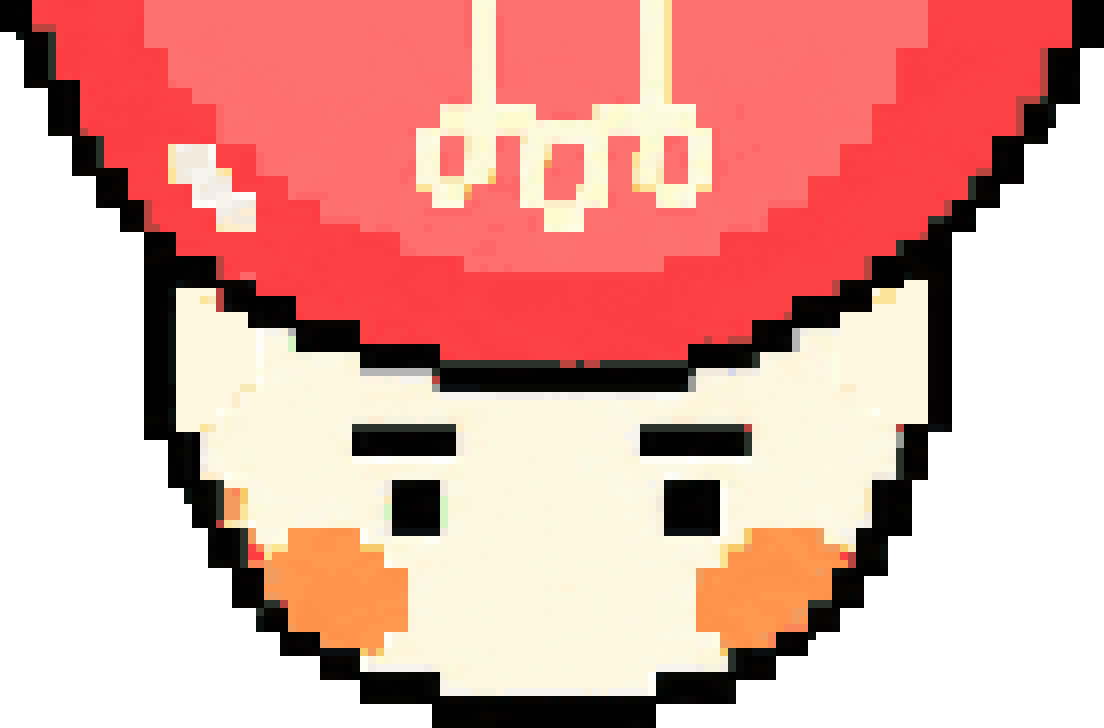
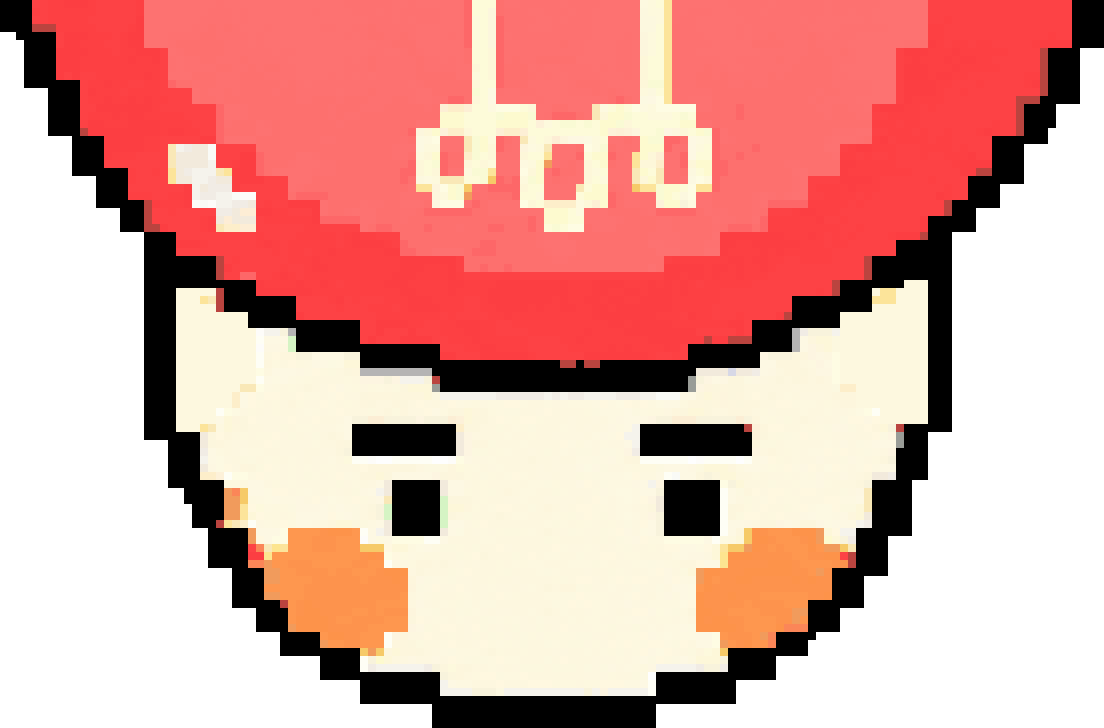
Auto-sync: 2026-11-25 17:25:59

diff --git a/output/imagegen/전구모션_생성도구_2026-11-25/build_backgrounds.py b/output/imagegen/전구모션_생성도구_2026-11-25/build_backgrounds.py
@@ -27,6 +27,36 @@ def foreground(path,pixel):
     if pixel:ar[:,:,3]=np.where(ar[:,:,3]>=cutoff,255,0)
     return Image.fromarray(ar)
 
+def alternate_brows(front,pixel):
+    out=front.copy(); w,h=front.size
+    patches=[(.465,.190,.523,.239,-25),(.544,.190,.608,.239,25),
+             (.035,.845,.119,.909,-25),(.126,.883,.204,.951,25),
+             (.786,.860,.855,.950,-25),(.877,.835,.950,.919,25)]
+    for x0,y0,x1,y1,angle in patches:
+        box=(round(x0*w),round(y0*h),round(x1*w),round(y1*h))
+        patch=out.crop(box); ar=np.array(patch);rgb=ar[:,:,:3].astype(int)
+        dark=(rgb.max(axis=2)<90)&(ar[:,:,3]>128)
+        comps=[]
+        for pts in a.connected(dark):
+            yy,xx=np.array(pts).T
+            if len(pts)>=3 and xx.max()-xx.min()>=max(2,yy.max()-yy.min()):
+                comps.append(pts)
+        if not comps:continue
+        pts=max(comps,key=len); yy,xx=np.array(pts).T
+        mask=np.zeros(dark.shape,dtype='uint8');mask[yy,xx]=255
+        mask=Image.fromarray(mask).filter(ImageFilter.MaxFilter(3))
+        skin=(rgb[:,:,0]>180)&(rgb[:,:,1]>160)&(rgb[:,:,2]>130)&(ar[:,:,3]>128)
+        if not skin.any():continue
+        color=tuple(int(v) for v in np.median(rgb[skin],axis=0))+(255,)
+        fill=Image.new('RGBA',patch.size,color)
+        out.paste(fill,(box[0],box[1]),mask)
+        ink=Image.new('RGBA',patch.size,(0,0,0,255));ink.putalpha(mask)
+        ink=a.trim(ink)
+        ink=ink.rotate(angle,resample=Image.Resampling.NEAREST if pixel else Image.Resampling.BICUBIC,expand=True)
+        center=(box[0]+(int(xx.min())+int(xx.max()))/2,box[1]+(int(yy.min())+int(yy.max()))/2)
+        out.alpha_composite(ink,(round(center[0]-ink.width/2),round(center[1]-ink.height/2)))
+    return out
+
 def run():
     base=fit(a.load(HERE/'하늘_기본원화.png')).convert('RGB')
     files=[]
@@ -39,7 +69,10 @@ def run():
             alpha=front.getchannel('A')
             front=front.convert('RGB').quantize(colors=128,dither=Image.Dither.NONE).convert('RGBA')
             front.putalpha(alpha)
+            ar=np.array(front); dark=(ar[:,:,:3].max(axis=2)<60)&(ar[:,:,3]>0);ar[dark,:3]=0
+            front=Image.fromarray(ar)
         else:sky=base.convert('RGBA')
+        alt=alternate_brows(front,pixel)
         bg_name=f'5색_{style}_배경만_팀원기준_2026-11-25.png'
         shown=a.resize(sky,SIZE,True) if pixel else sky
         shown.convert('RGB').save(ROOT/bg_name,compress_level=1);files.append(bg_name)
@@ -47,6 +80,9 @@ def run():
         wall_name=f'5색_{style}_내려다보기_배경화면_팀원기준_2026-11-25.png'
         shown=a.resize(result,SIZE,True) if pixel else result
         shown.convert('RGB').save(ROOT/wall_name,compress_level=1);files.append(wall_name)
+        alternate=sky.copy();alternate.alpha_composite(alt)
+        name=f'5색_{style}_표정2조합_내려다보기_배경화면_팀원기준_2026-11-25.png'
+        (a.resize(alternate,SIZE,True) if pixel else alternate).convert('RGB').save(ROOT/name,compress_level=1);files.append(name)
         # Assign complete connected components (including detached screw caps)
         # to one of the five requested original edge positions.
         mask=np.array(front.getchannel('A').resize(SMALL,Image.Resampling.NEAREST))>=128
@@ -59,18 +95,26 @@ def run():
             cx,cy=xx.mean()/480,yy.mean()/270
             color=min(ANCHORS,key=lambda c:(cx-ANCHORS[c][0])**2+(cy-ANCHORS[c][1])**2)
             pixels[color][yy,xx]=255
-        poses=[]
+        poses=[];alternates=[]
         for color in a.COLORS:
             mask=Image.fromarray(pixels[color])
             assert mask.getbbox() is not None,f'Missing edge character: {style}/{color}'
             if not pixel:
-                mask=mask.resize(SIZE,Image.Resampling.NEAREST).filter(ImageFilter.MaxFilter(17))
+                mask=mask.filter(ImageFilter.MaxFilter(3)).resize(SIZE,Image.Resampling.NEAREST)
             pose=front.copy()
             pose.putalpha(Image.fromarray(np.minimum(np.array(front.getchannel('A')),np.array(mask))))
             pose=a.trim(pose)
             if pixel:pose=a.resize(pose,(pose.width*8,pose.height*8),True)
             pose_name=f'{color}_{style}_내려다보기_포즈_팀원기준_2026-11-25.png'
             pose.save(ROOT/pose_name,compress_level=1);files.append(pose_name)
+            if color in ['빨강','초록','파랑']:
+                other=alt.copy()
+                other.putalpha(Image.fromarray(np.minimum(np.array(alt.getchannel('A')),np.array(mask))))
+                other=a.trim(other)
+                if pixel:other=a.resize(other,(other.width*8,other.height*8),True)
+                other_name=f'{color}_{style}_표정2_내려다보기_포즈_팀원기준_2026-11-25.png'
+                other.save(ROOT/other_name,compress_level=1);files.append(other_name)
+                alternates.append(other)
             cell=Image.new('RGBA',(896,896))
             if pixel:
                 native=pose.resize((pose.width//8,pose.height//8),Image.Resampling.NEAREST)
@@ -84,6 +128,19 @@ def run():
                 xy=((896-pose.width)//2,(896-pose.height)//2)
             cell.alpha_composite(pose,xy)
             poses.append(cell)
+        for pose in alternates:
+            cell=Image.new('RGBA',(896,896))
+            if pixel:
+                native=pose.resize((pose.width//8,pose.height//8),Image.Resampling.NEAREST)
+                factor=min(1,98/native.width,98/native.height)
+                native=a.resize(native,(native.width*factor,native.height*factor),True)
+                pose=a.resize(native,(native.width*8,native.height*8),True)
+                xy=(((112-native.width)//2)*8,((112-native.height)//2)*8)
+            else:
+                factor=min(784/pose.width,784/pose.height)
+                pose=a.resize(pose,(pose.width*factor,pose.height*factor),False)
+                xy=((896-pose.width)//2,(896-pose.height)//2)
+            cell.alpha_composite(pose,xy);poses.append(cell)
         atlas_name=f'5색_{style}_내려다보기_포즈시트_팀원기준_2026-11-25.png'
         a.sheet(poses,4).save(ROOT/atlas_name,compress_level=1);files.append(atlas_name)
     for name in files:

diff --git a/output/imagegen/전구모션_생성도구_2026-11-25/finish_assets.py b/output/imagegen/전구모션_생성도구_2026-11-25/finish_assets.py
@@ -58,38 +58,44 @@ def repair_directions():
     jobs=[(pixel,style,color,expression) for pixel,style in [(True,'픽셀'),(False,'기본')] for color in a.COLORS for expression in ([1,2] if color in ['빨강','초록','파랑'] else [1])]
     with ThreadPoolExecutor(max_workers=3) as pool:list(pool.map(repair_one,jobs))
 
+def export_one_gif(record):
+    name=record['file'].replace('_모션시트_팀원기준_2026-11-25.png','')
+    frames=read_frames(name)
+    atlas=Image.new('RGB',(448*8,640))
+    for i,f in enumerate(frames):atlas.paste(f.convert('RGB'),(448*i,0))
+    palette=atlas.quantize(colors=255,method=Image.Quantize.MEDIANCUT)
+    indexed=[]
+    for f in frames:
+        ind=f.convert('RGB').quantize(palette=palette,dither=Image.Dither.NONE)
+        ind.paste(255,mask=f.getchannel('A').point(lambda v:255 if v==0 else 0))
+        ind.info['transparency']=255
+        indexed.append(ind)
+    dest=ROOT/(name+'_180ms_팀원기준_2026-11-25.gif')
+    # Explicit full-frame writer retains all 8 frames, including held poses.
+    with dest.open('wb') as fp:
+        for block in GifImagePlugin._get_global_header(indexed[0],{'loop':0,'transparency':255}):fp.write(block)
+        for ind in indexed:
+            GifImagePlugin._write_frame_data(fp,ind,(0,0),{'duration':180,'disposal':2,'transparency':255})
+        fp.write(b';')
+    with Image.open(dest) as check:
+        assert check.n_frames==8 and check.info['loop']==0
+        for i,f in enumerate(ImageSequence.Iterator(check)):
+            assert f.info['duration']==180
+            rgba=f.convert('RGBA')
+            assert set(rgba.getchannel('A').get_flattened_data())=={0,255}
+            assert rgba.tobytes()==rgba.resize((112,160),Image.Resampling.NEAREST).resize((448,640),Image.Resampling.NEAREST).tobytes()
+            assert rgba.getchannel('A').getbbox() is not None
+    return {'file':dest.name,'frames':8,'frame_ms':180,'loop_ms':1440,'transparent':True,'pixel_grid':'4x4'}
+
 def export_gifs(records):
-    assert (HERE/'배경단계_완료.json').exists(),'All background PNGs must precede GIF encoding'
+    from concurrent.futures import ThreadPoolExecutor
+    assert (HERE/'배경단계_완료.json').exists()
+    jobs=[r for r in records if r['kind']=='motion' and r['style']=='픽셀']
     reports=[]
-    for record in records:
-        if record['kind']!='motion' or record['style']!='픽셀':continue
-        name=record['file'].replace('_모션시트_팀원기준_2026-11-25.png','')
-        frames=read_frames(name)
-        atlas=Image.new('RGB',(448*8,640))
-        for i,f in enumerate(frames):atlas.paste(f.convert('RGB'),(448*i,0))
-        palette=atlas.quantize(colors=255,method=Image.Quantize.MEDIANCUT)
-        indexed=[]
-        for f in frames:
-            ind=f.convert('RGB').quantize(palette=palette,dither=Image.Dither.NONE)
-            ind.paste(255,mask=f.getchannel('A').point(lambda v:255 if v==0 else 0))
-            ind.info['transparency']=255
-            indexed.append(ind)
-        dest=ROOT/(name+'_180ms_팀원기준_2026-11-25.gif')
-        # Explicit full-frame writer retains all 8 frames, including held poses.
-        with dest.open('wb') as fp:
-            for block in GifImagePlugin._get_global_header(indexed[0],{'loop':0,'transparency':255}):fp.write(block)
-            for ind in indexed:
-                GifImagePlugin._write_frame_data(fp,ind,(0,0),{'duration':180,'disposal':2,'transparency':255})
-            fp.write(b';')
-        with Image.open(dest) as check:
-            assert check.n_frames==8 and check.info['loop']==0
-            for i,f in enumerate(ImageSequence.Iterator(check)):
-                assert f.info['duration']==180
-                rgba=f.convert('RGBA')
-                assert set(rgba.getchannel('A').get_flattened_data())=={0,255}
-                assert rgba.tobytes()==rgba.resize((112,160),Image.Resampling.NEAREST).resize((448,640),Image.Resampling.NEAREST).tobytes()
-                assert rgba.getchannel('A').getbbox() is not None
-        reports.append({'file':dest.name,'frames':8,'frame_ms':180,'loop_ms':1440,'transparent':True,'pixel_grid':'4x4'})
+    with ThreadPoolExecutor(max_workers=4) as pool:
+        for result in pool.map(export_one_gif,jobs):
+            reports.append(result)
+            if len(reports)%15==0:print('GIF_VERIFIED',len(reports),flush=True)
     return reports
 
 def verify_png(records):
@@ -130,7 +136,11 @@ def preview():
 
 def package():
     records=json.loads((HERE/'PNG_산출물.json').read_text(encoding='utf-8'))
-    verified=verify_png(records)
+    certificate=HERE/'PNG_검증완료.json'
+    if certificate.exists():
+        verified=json.loads(certificate.read_text(encoding='utf-8'))['files']
+        assert set(verified)=={r['file'] for r in records}
+    else:verified=verify_png(records)
     gifreports=export_gifs(records)
     preview_path=preview()
     backgrounds=json.loads((HERE/'배경단계_완료.json').read_text(encoding='utf-8'))
@@ -152,7 +162,7 @@ def package():
         '정면은 팀원 원본을 활용하고, 측면·후면·윗면은 생성 도구 원화를 사용했습니다.\n'
         '픽셀 GIF는 반투명 표현을 지원하지 않아 발광 PNG의 반투명 후광을 불투명 픽셀 띠로 인코딩합니다.\n'
         '상세 파일별 색상/스타일/표정/상태/동작은 JSON 색인을 확인하세요.\n',encoding='utf-8')
-    paths=[ROOT/r['file'] for r in records]+[ROOT/r['file'] for r in gifreports]+[ROOT/x for x in backgrounds['files']]+[index,readme,preview_path]
+    paths=[ROOT/r['file'] for r in records]+[ROOT/r['file'] for r in gifreports]+[ROOT/x for x in backgrounds['files']]+[index,readme,preview_path,ROOT/'전구_팀원기준_생성프롬프트_2026-11-25.json']
     bundle=ROOT/'전구_기본_픽셀_전체_팀원기준_2026-11-25.zip'
     with zipfile.ZipFile(bundle,'w',zipfile.ZIP_DEFLATED,compresslevel=5) as z:
         for p in paths:z.write(p,p.name)

diff --git a/research/광주_웰니스맛집_동명동_충장로.md b/research/광주_웰니스맛집_동명동_충장로.md
@@ -1,0 +1,84 @@
+# 광주 웰니스 맛집: 동명동 + 충장로
+
+확인일: 2026-11-25
+
+## 기준
+
+| 항목 | 동명동 | 충장로 |
+|---|---|---|
+| 별점 | 4.7 이상 | 4.6 이상 또는 비공개 |
+| 방문자 리뷰 | 500개 이상 | 300개 이상 |
+| 체인 | 거르지 않음 | 상호에 지점명이 있으면 제외, 본점은 포함 |
+| 위치 | 동명동 + 장동·지산동 | 충장로1가 + 광산동·궁동·불로동·대의동 |
+
+- 음식: 덜 기름지고, 소화 잘 되고, 채소가 많고 싱싱한 메뉴가 있는 곳. 적합도는 네이버에 올라온 메뉴를 보고 판단함
+- 리뷰 수: 블로그 리뷰를 뺀 방문자 리뷰
+- 거리: 국립아시아문화전당(ACC) 네이버 좌표에서 직선거리
+- 순서: 별점순, 같으면 리뷰순. 별점 비공개는 뒤에 리뷰순
+- 충장로는 처음 기준(4.7 이상, 500개 이상)으로 1곳만 나왔고, 그곳은 지점이라 제외해서 기준을 낮춤
+
+## 동명동 6곳
+
+| # | 가게 | 별점 | 리뷰 | 거리 | 주소 (광주 동구) | 추천 메뉴 | 참고 |
+|---|---|---|---|---|---|---|---|
+| 1 | [델리셔스샌드위치](https://pcmap.place.naver.com/restaurant/1512499289/home) | 4.94 | 1,230 | 420m | 동명로25번길 9-9 2층 | 바질 루꼴라 잠봉 13,300원, 토마토 캐럿 스프 7,500원 | 치즈·햄 들어감 |
+| 2 | [규슈 동명본점](https://pcmap.place.naver.com/restaurant/1256613300/home) | 4.91 | 6,675 | 624m | 동명로 47-3 | 채소·버섯 샤브 | 매장 1인 가격 미확인 |
+| 3 | [정원샤브 조대후문본점](https://pcmap.place.naver.com/restaurant/1896399231/home) | 4.91 | 3,701 | 700m | 필문대로273번길 11 2층 | 월남쌈 샤브 12,900원 | 지산동 |
+| 4 | [백식](https://pcmap.place.naver.com/restaurant/2029466762/home) | 4.86 | 4,509 | 525m | 동명로20번길 17-6 1~2층 | 사시미 정식 21,800원 (샐러드 포함) | 튀김 포함 |
+| 5 | [사이공장](https://pcmap.place.naver.com/restaurant/1694139328/home) | 4.85 | 4,683 | 263m | 장동로 15-2 1층 | 월남쌈 33,000원, 양지쌀국수 12,000원 | 장동 |
+| 6 | [아우르 동명본점](https://pcmap.place.naver.com/restaurant/1666847306/home) | 4.82 | 1,259 | 669m | 동명로14번길 45-21 | 새송이 수비드 치킨 샐러드 15,000원 | 샐러드로 골라야 함 |
+
+### 별점 확인이 필요한 후보
+
+목록 데이터에는 별점이 나왔지만 상세 페이지에는 안 나와서 순위에서 뺌.
+
+| 가게 | 목록 별점 | 리뷰 | 거리 | 주소 (광주 동구) | 추천 메뉴 | 참고 |
+|---|---|---|---|---|---|---|
+| [우쉬룸](https://pcmap.place.naver.com/restaurant/2080694128/home) | 4.92 | 1,295 | 473m | 동명로14번길 21 1~2층 | 그릴드 쉬림프 샐러드 18,000원 | 11월 수요일 휴무 |
+| [요켈 동명산수점](https://pcmap.place.naver.com/restaurant/1078182291/home) | 4.87 | 1,602 | 740m | 동명로67번길 31 1층 | 구운 야채와 후무스 포케 16,500원, ABC 주스 7,500원 | 산수동. 메뉴는 조건에 가장 가까움 |
+
+## 충장로 6곳
+
+| # | 가게 | 별점 | 리뷰 | 거리 | 주소 (광주 동구) | 추천 메뉴 | 참고 |
+|---|---|---|---|---|---|---|---|
+| 1 | [바리에](https://pcmap.place.naver.com/restaurant/20283528/home) | 4.66 | 4,351 | 669m | 서석로7번길 14 | 유기농 하우스 샐러드 8,500원, 리코타샐러드 19,500원 | 불로동. 파스타·피자도 있음 |
+| 2 | [장독대](https://pcmap.place.naver.com/restaurant/21306249/home) | 비공개 | 950 | 276m | 문화전당로 43 3층 | 고등어쌈밥 15,000원 | 광산동. 가격은 2025-09-07 기준 |
+| 3 | [파더스베이글 본점](https://pcmap.place.naver.com/restaurant/953740419/home) | 비공개 | 567 | 224m | 서석로 87 1층 | 연어 샌드위치 9,700원, 팔라펠 샌드위치 8,600원, 시저샐러드 9,300원 | 대의동 |
+| 4 | [구수향](https://pcmap.place.naver.com/restaurant/37294495/home) | 비공개 | 533 | 330m | 예술길 23-6 | 생고기비빔밥 12,000원, 돌솥비빔밥 14,000원 | 궁동. 고기구이도 있음 |
+| 5 | [신성식당](https://pcmap.place.naver.com/restaurant/11568333/home) | 비공개 | 358 | 292m | 충장로 101-17 | 상추백반 13,000원, 비빔밥 10,000원 | 충장로1가 |
+| 6 | [달정원](https://pcmap.place.naver.com/restaurant/38429681/home) | 비공개 | 302 | 557m | 중앙로 210 1층 | 수제 리코타치즈샐러드 15,000원 | 궁동. 스테이크·피자도 있음 |
+
+### 리뷰 미달 후보
+
+| 가게 | 별점 | 리뷰 | 거리 | 주소 (광주 동구) | 추천 메뉴 |
+|---|---|---|---|---|---|
+| [오월밥집](https://pcmap.place.naver.com/restaurant/1555060152/home) | 4.92 | 162 | 428m | 예술길15번길 10-1 | 비건비빔밥 6,000원 (가격은 2025-05-25 기준) |
+
+## 확인 못 한 것
+
+- 네이버 목록 전체를 본 게 아니라 수집한 범위 안의 결과임
+- 별점 비공개 5곳(장독대, 파더스베이글 본점, 구수향, 신성식당, 달정원)은 4.6을 넘는지 알 수 없음
+- 충장로 체인 여부는 상호로만 판단함
+- 리뷰 본문의 맛 평가, 리뷰 이벤트 여부, 전화 영업 확인은 안 함
+- 가격과 영업시간은 방문 전 다시 확인 필요
+
+## 출처
+
+| 사이트 이름 | 주소 | 확인한 날짜 |
+|---|---|---|
+| 네이버 플레이스 - 델리셔스샌드위치 | https://pcmap.place.naver.com/restaurant/1512499289/home | 2026-11-25 |
+| 네이버 플레이스 - 규슈 동명본점 | https://pcmap.place.naver.com/restaurant/1256613300/home | 2026-11-25 |
+| 네이버 플레이스 - 정원샤브 조대후문본점 | https://pcmap.place.naver.com/restaurant/1896399231/home | 2026-11-25 |
+| 네이버 플레이스 - 백식 | https://pcmap.place.naver.com/restaurant/2029466762/home | 2026-11-25 |
+| 네이버 플레이스 - 사이공장 | https://pcmap.place.naver.com/restaurant/1694139328/home | 2026-11-25 |
+| 네이버 플레이스 - 아우르 동명본점 | https://pcmap.place.naver.com/restaurant/1666847306/home | 2026-11-25 |
+| 네이버 플레이스 - 우쉬룸 | https://pcmap.place.naver.com/restaurant/2080694128/home | 2026-11-25 |
+| 네이버 플레이스 - 요켈 동명산수점 | https://pcmap.place.naver.com/restaurant/1078182291/home | 2026-11-25 |
+| 네이버 플레이스 - 바리에 | https://pcmap.place.naver.com/restaurant/20283528/home | 2026-11-25 |
+| 네이버 플레이스 - 장독대 | https://pcmap.place.naver.com/restaurant/21306249/home | 2026-11-25 |
+| 네이버 플레이스 - 파더스베이글 본점 | https://pcmap.place.naver.com/restaurant/953740419/home | 2026-11-25 |
+| 네이버 플레이스 - 구수향 | https://pcmap.place.naver.com/restaurant/37294495/home | 2026-11-25 |
+| 네이버 플레이스 - 신성식당 | https://pcmap.place.naver.com/restaurant/11568333/home | 2026-11-25 |
+| 네이버 플레이스 - 달정원 | https://pcmap.place.naver.com/restaurant/38429681/home | 2026-11-25 |
+| 네이버 플레이스 - 오월밥집 | https://pcmap.place.naver.com/restaurant/1555060152/home | 2026-11-25 |
+| 네이버 플레이스 - 국립아시아문화전당 (거리 기준 좌표) | https://pcmap.place.naver.com/place/37039338/home | 2026-11-25 |
